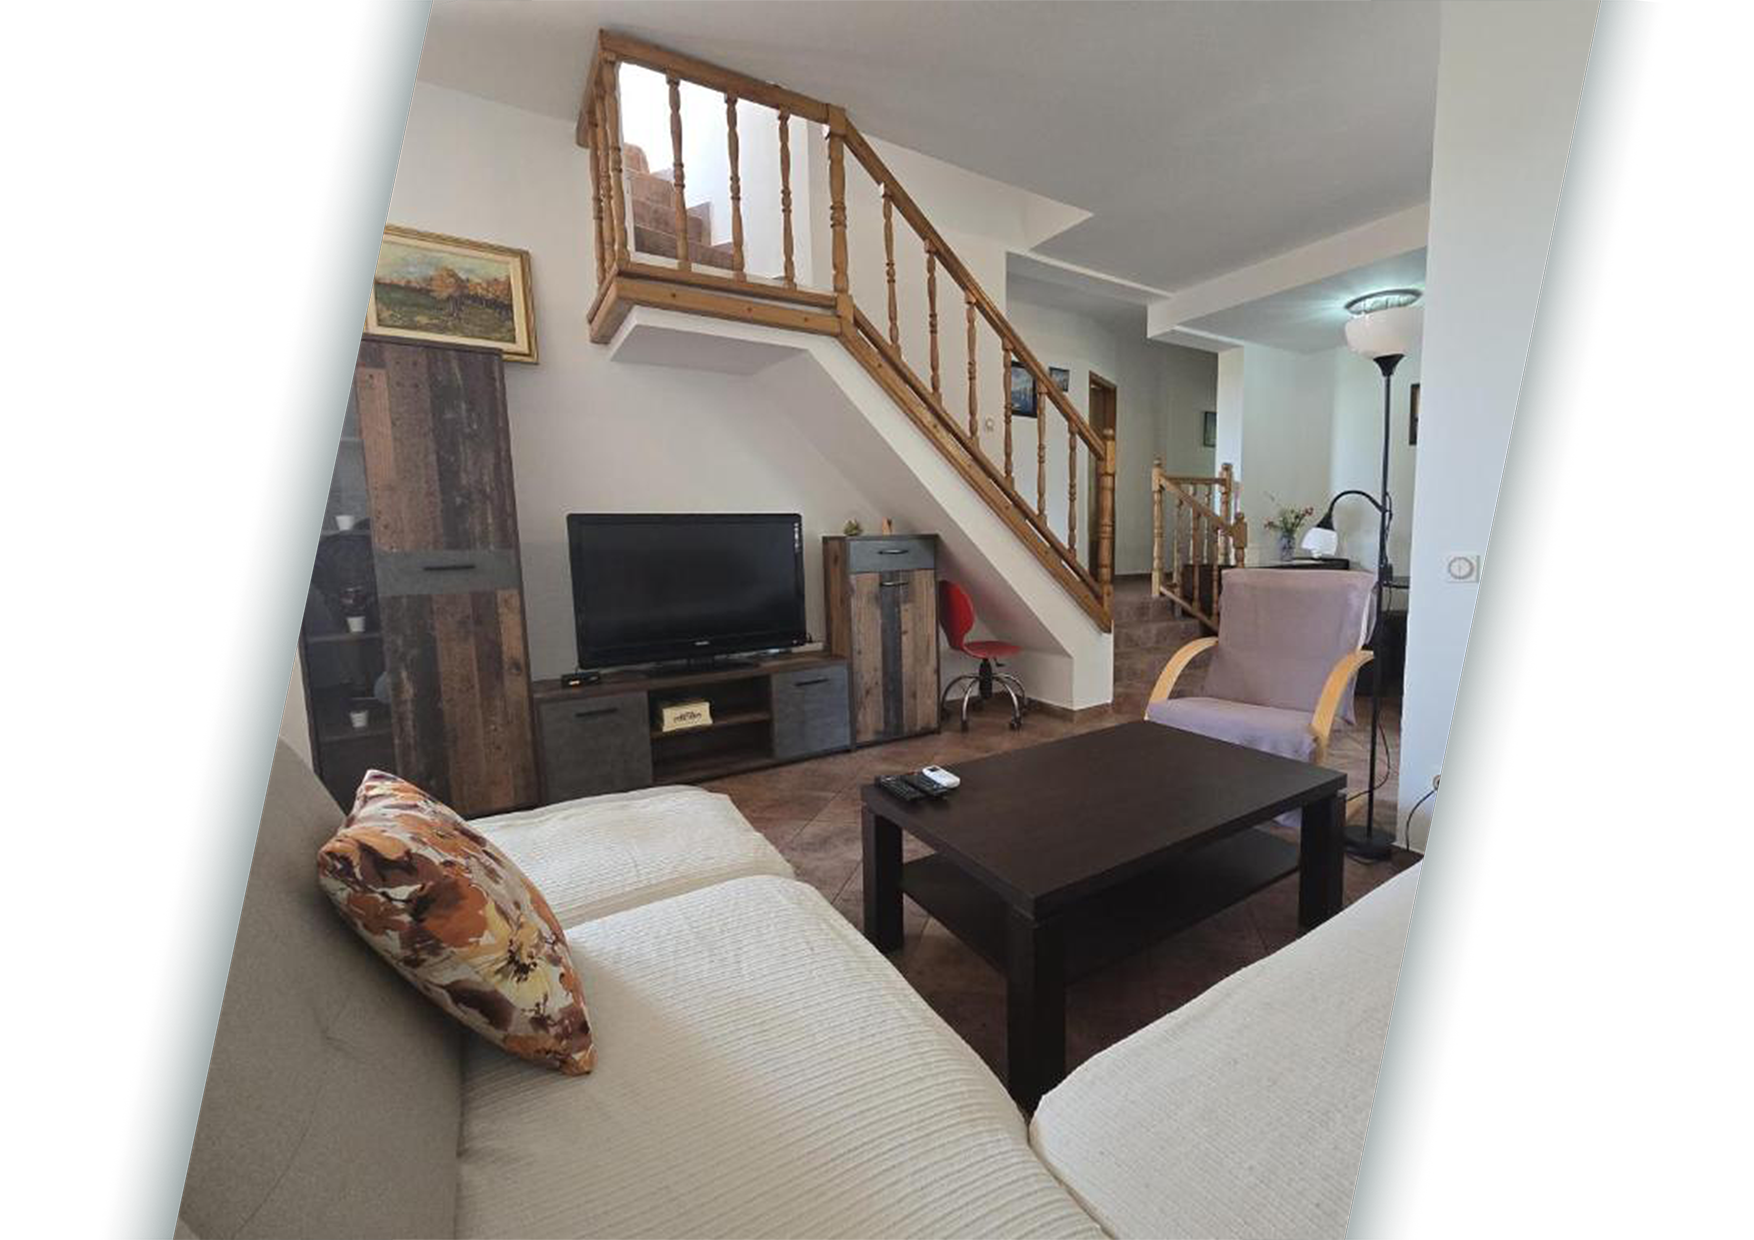
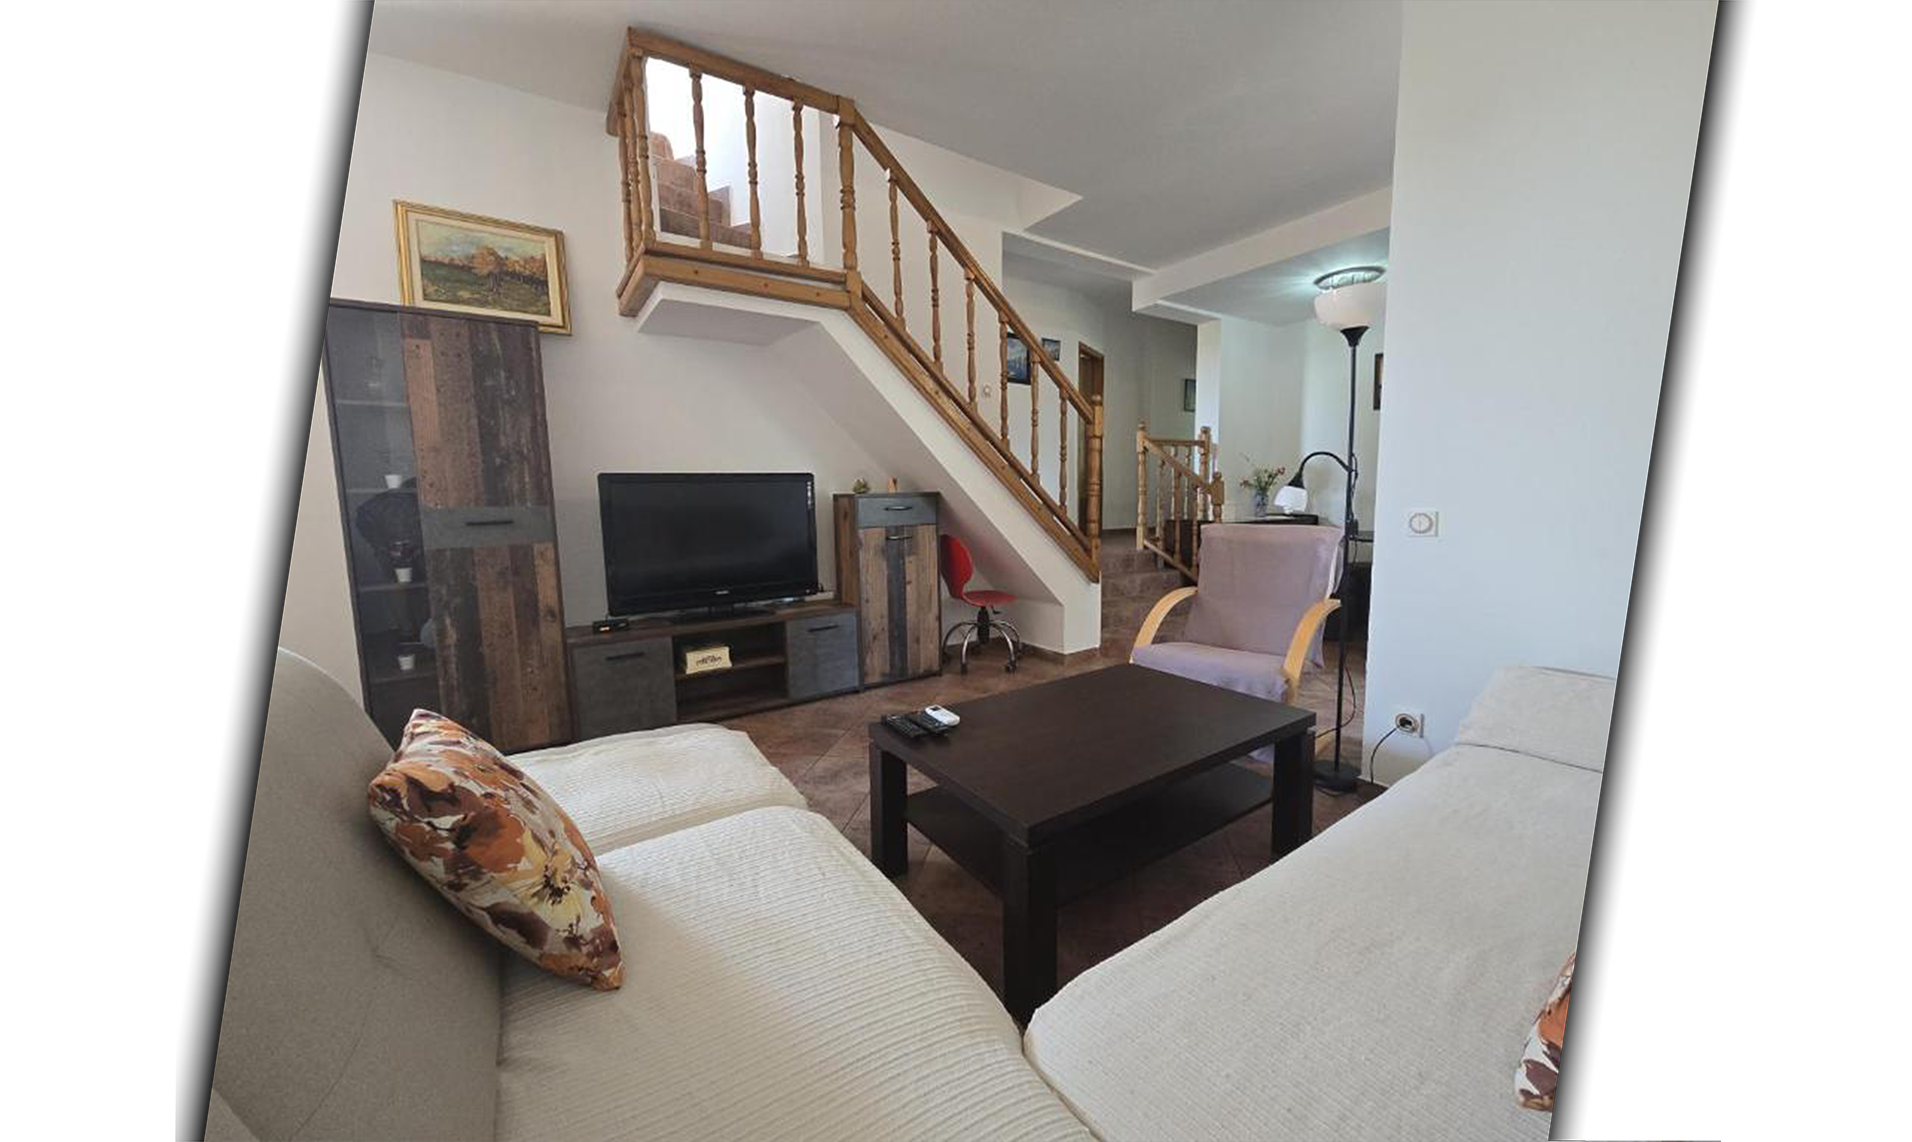
Enhance styles for partmiddle image with clip-path and transform for improved layout

diff --git a/styles.css b/styles.css
@@ -1265,6 +1265,8 @@ footer .wa-link:hover { color: #25D366; }
     width: 100%;
     height: 400px;
     overflow: hidden;
+    clip-path: inset(0);
+    transform: translateZ(0);
     background: var(--sand);
 }
 .part-left,